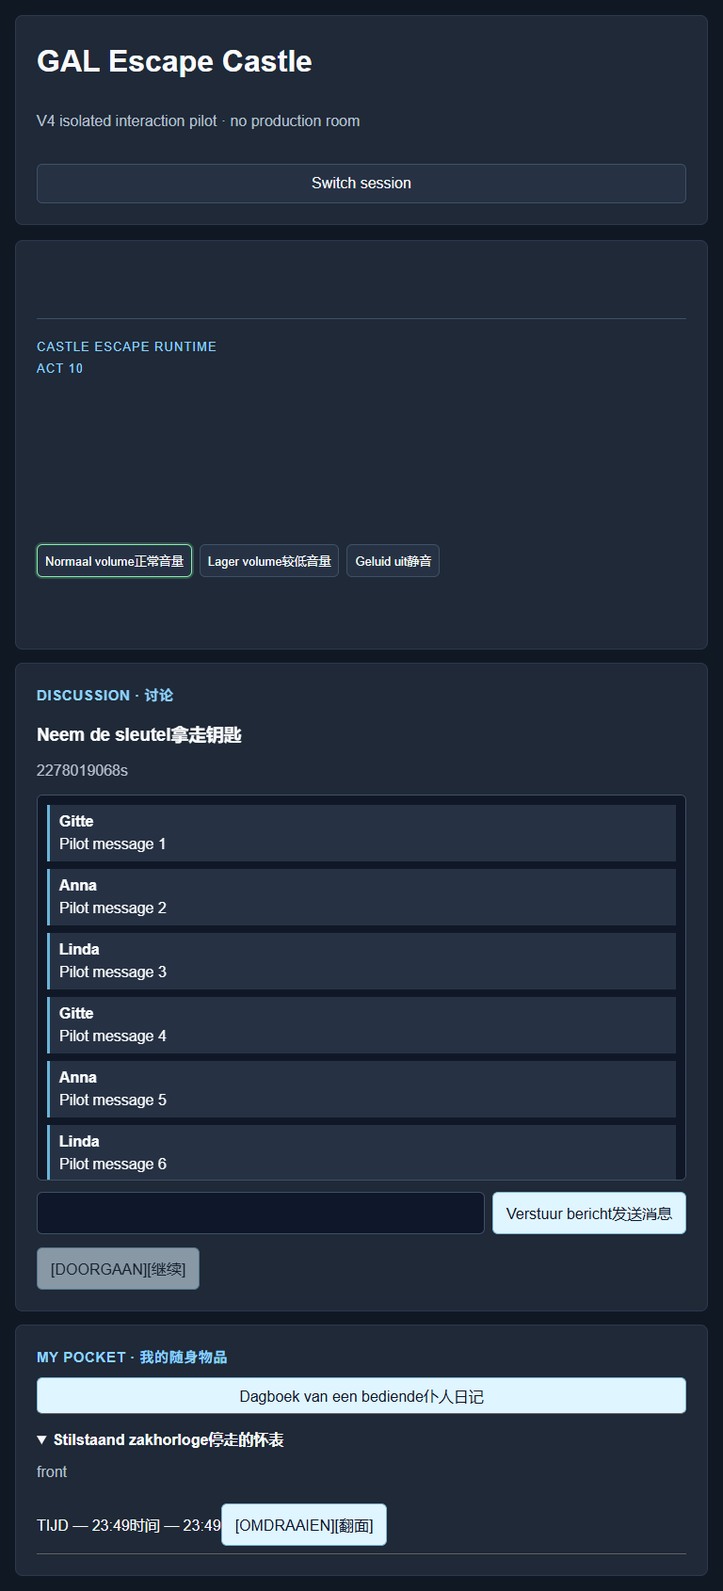
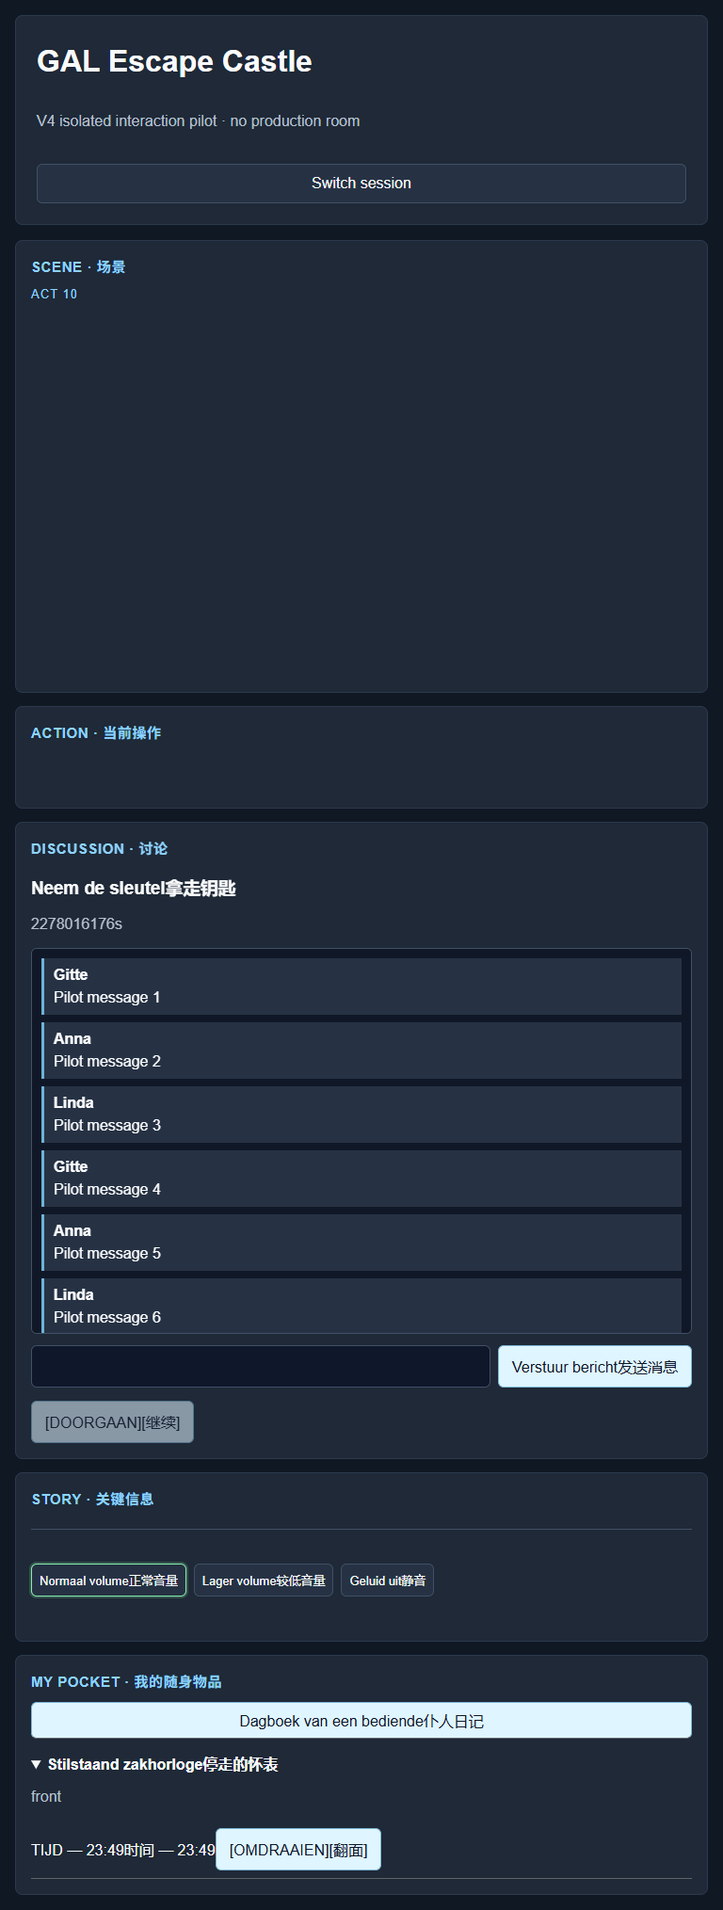
CD: close V4 interactive and layout review gaps

diff --git a/tests/helpers/v4-two-scene-pilot-driver.js b/tests/helpers/v4-two-scene-pilot-driver.js
@@ -5,17 +5,17 @@ const players=[
   {player_id:"00000000-0000-4000-8000-0000000004a4",display_name:"Linda",role_slot:"GAL-C",session_token:"PILOT-C"},
 ];
 const initialMessages=Array.from({length:18},(_,i)=>({display_name:players[i%3].display_name,message_text:`Pilot message ${i+1}`,created_at:`2026-10-25T00:00:${String(i).padStart(2,"0")}Z`}));
-function createPilotState(){return{messages:[...initialMessages],phase:"act10_discussion",discussionStatus:"discussion",sent:[],librarySubmits:[],inspected:[],flips:[],teacherOpenVote:[],pocketInspected:new Set(["linda_stopped_watch"]),watchView:"front"}}
+function createPilotState(sceneMode="act10"){return{sceneMode,lockedPrefix:"41",messages:[...initialMessages],phase:"act10_discussion",discussionStatus:"discussion",discussionId:DISC,sent:[],librarySubmits:[],inspected:[],flips:[],teacherOpenVote:[],pocketInspected:new Set(["linda_stopped_watch"]),watchView:"front"}}
 const sessionFor=index=>({room_code:"V4PILOT",...players[index]});
 const pocket=state=>({active:true,items:[{item_key:"anna_servant_diary",name_text_key:"item.servant_diary",current_view:"front"},{item_key:"linda_stopped_watch",name_text_key:"item.stopped_watch",current_view:state.watchView}],group_items:[],observations:[],shared_photos:[],inspected_item_keys:[...state.pocketInspected],scene:{allow_share_photo:false}});
-const s3b=scene=>({active:true,run_id:RUN,scene:scene==="act3"?{scene_id:"act3_library",phase_key:"library_box",step_key:"enter_code",text_key:"act03.009"}:{scene_id:"act10_golden_key",phase_key:"act10_discussion",step_key:"discussion",text_key:"act10.004"},flow:{puzzle_resolved_at:null,puzzle_locked_prefix:"41",puzzle_hint_stage:0},me:{first_meeting_locked_at:"2026-10-25T00:00:00Z",grab_complete:true,left_start_room:true,route_update_ack_at:"2026-10-25T00:00:01Z",player_location:"library"},queued_first_messages:[],act4_revealed:[]});
-const discussion=state=>({discussion_session_id:DISC,phase_key:"act10_discussion",status:state.discussionStatus,phase_deadline:"2099-01-01T00:00:00Z",teacher_open_required:true,vote_round:1,topic:"Golden key",messages:state.messages,require_final_vote:true});
+const s3b=(scene,state)=>({active:true,run_id:RUN,scene:scene==="act3"?{scene_id:"act3_library",phase_key:"library_box",step_key:"enter_code",text_key:"act03.009"}:{scene_id:"act10_golden_key",phase_key:"act10_discussion",step_key:"discussion",text_key:"act10.004"},flow:{puzzle_resolved_at:null,puzzle_locked_prefix:state.lockedPrefix,puzzle_hint_stage:0},me:{first_meeting_locked_at:"2026-10-25T00:00:00Z",grab_complete:true,left_start_room:true,route_update_ack_at:"2026-10-25T00:00:01Z",player_location:"library"},queued_first_messages:[],act4_revealed:[]});
+const discussion=state=>({discussion_session_id:state.discussionId,phase_key:"act10_discussion",status:state.discussionStatus,phase_deadline:"2099-01-01T00:00:00Z",teacher_open_required:true,vote_round:1,topic:"Golden key",messages:state.messages,require_final_vote:true});
 const s6=state=>({active:true,run_id:RUN,state:{run_id:RUN,act_no:10,phase_key:state.phase,act9_step:4,round_no:1,gold_key:true,feedback_text_keys:[]},discussion:state.phase==="act10_discussion"?discussion(state):null,private_choices_revealed:[],audio_occurrence:null});
 function playerValue(name,scene,state){
-  if(name==="s8_get_player_state")return{active:false};if(name==="s2_get_player_state")return{active:true,discussion:null};if(name==="s3b_get_player_state")return s3b(scene);if(name==="s5_get_player_state")return{active:false};if(name==="s6_get_player_state")return scene==="act10"?s6(state):{active:false};if(name==="s9_get_player_wait_state")return{active:false};if(name==="s3_get_player_state")return pocket(state);if(name==="asset_resolve")return{ok:false};return null;
+  if(name==="s8_get_player_state")return{active:false};if(name==="s2_get_player_state")return{active:true,discussion:null};if(name==="s3b_get_player_state")return s3b(scene,state);if(name==="s5_get_player_state")return{active:false};if(name==="s6_get_player_state")return scene==="act10"?s6(state):{active:false};if(name==="s9_get_player_wait_state")return{active:false};if(name==="s3_get_player_state")return pocket(state);if(name==="asset_resolve")return{ok:false};return null;
 }
-async function installPlayerRoutes(page,scene,{state=createPilotState(),playerIndex=1}={}){const session=sessionFor(playerIndex);await page.addInitScript(saved=>localStorage.setItem("gal_castle_escape_session_v1",JSON.stringify(saved)),session);await page.route("**/rest/v1/rpc/**",async route=>{const name=new URL(route.request().url()).pathname.split("/").pop(),body=route.request().postDataJSON?.()||{};if(name==="s6_send_message_v2"){state.sent.push({...body,role_slot:session.role_slot});state.messages.push({display_name:session.display_name,message_text:body.p_message_text,created_at:new Date().toISOString()});return ok(route)}if(name==="s3b_submit_library_code"){state.librarySubmits.push(body);return ok(route)}if(name==="s9_inspect_pocket_item"){state.inspected.push(body);state.pocketInspected.add(body.p_item_key);return ok(route)}if(name==="s3_set_item_view"){state.flips.push(body);state.watchView=body.p_target_view;return ok(route)}const result=playerValue(name,scene,state);return json(route,result===null?400:200,result===null?{message:`Unexpected RPC ${name}`}:result)});return state}
+async function installPlayerRoutes(page,scene,{state=createPilotState(scene),playerIndex=1}={}){const session=sessionFor(playerIndex);await page.addInitScript(saved=>localStorage.setItem("gal_castle_escape_session_v1",JSON.stringify(saved)),session);await page.route("**/rest/v1/rpc/**",async route=>{const name=new URL(route.request().url()).pathname.split("/").pop(),body=route.request().postDataJSON?.()||{};if(name==="s6_send_message_v2"){state.sent.push({...body,role_slot:session.role_slot});state.messages.push({display_name:session.display_name,message_text:body.p_message_text,created_at:new Date().toISOString()});return ok(route)}if(name==="s3b_submit_library_code"){state.librarySubmits.push(body);return ok(route)}if(name==="s9_inspect_pocket_item"){state.inspected.push(body);state.pocketInspected.add(body.p_item_key);return ok(route)}if(name==="s3_set_item_view"){state.flips.push(body);state.watchView=body.p_target_view;return ok(route)}const result=playerValue(name,state.sceneMode||scene,state);return json(route,result===null?400:200,result===null?{message:`Unexpected RPC ${name}`}:result)});return state}
 function teacherDiscussionState(state){return{sprint6_active:true,active:true,canonical_flow_active:true,run:{run_id:RUN,run_mode:"normal",behavior_dataset_eligible:false},s6:{act9_step:4,round_no:1},discussion:discussion(state),messages:state.messages,current_votes:players.map(p=>({...p,submitted:false})),teacher_override:null}}
-async function installTeacherRoutes(page,state){await page.route("**/rest/v1/rpc/**",async route=>{const name=new URL(route.request().url()).pathname.split("/").pop(),body=route.request().postDataJSON?.()||{};if(name==="s6_teacher_open_vote"){state.teacherOpenVote.push(body);state.discussionStatus="voting";state.phase="act10_final_vote";return ok(route)}if(name==="s1_get_teacher_state")return json(route,200,{room_code:"V4PILOT",current_scene:"act10_golden_key",phase:"active",players,decisions:[]});if(name==="s6_get_teacher_discussion_state")return json(route,200,teacherDiscussionState(state));if(name==="s7_get_teacher_console")return json(route,200,{active:false,export:{}});if(name==="s8_get_finalization_state")return json(route,200,{enabled:false,completed_runs:[]});return json(route,400,{message:`Unexpected RPC ${name}`})})}
+async function installTeacherRoutes(page,state){await page.route("**/rest/v1/rpc/**",async route=>{const name=new URL(route.request().url()).pathname.split("/").pop(),body=route.request().postDataJSON?.()||{};if(name==="s6_teacher_open_vote"){state.teacherOpenVote.push(body);state.discussionStatus="voting";state.phase="act10_final_vote";return ok(route)}if(name==="s1_get_teacher_state")return json(route,200,{room_code:"V4PILOT",current_scene:state.sceneMode==="act3"?"act3_library":"act10_golden_key",phase:"active",players,decisions:[]});if(name==="s6_get_teacher_discussion_state")return json(route,200,state.sceneMode==="act10"?teacherDiscussionState(state):{sprint6_active:false});if(name==="s5_get_teacher_discussion_state")return json(route,200,{sprint5_active:false});if(name==="s2_get_teacher_state")return json(route,200,{active:false,canonical_flow_active:true,discussion:null,teacher_override:null});if(name==="s7_get_teacher_console")return json(route,200,{active:false,export:{}});if(name==="s8_get_finalization_state")return json(route,200,{enabled:false,completed_runs:[]});return json(route,400,{message:`Unexpected RPC ${name}`})})}
 function json(route,status,value){return route.fulfill({status,contentType:"application/json",body:JSON.stringify(value)})}function ok(route){return json(route,200,{ok:true})}
 module.exports={RUN,DISC,players,createPilotState,installPlayerRoutes,installTeacherRoutes};

diff --git a/pilots/v4-two-scene/v4-two-scene-pilot.css b/pilots/v4-two-scene/v4-two-scene-pilot.css
@@ -1,3 +1,3 @@
-html[data-v4-pilot="true"]{--v4-gap:14px}html[data-v4-pilot="true"] body{background:#101824}html[data-v4-pilot="true"] .v4-pilot-shell{max-width:1680px;margin:auto;padding:16px}html[data-v4-pilot="true"] .v4-header{display:grid;grid-template-columns:1fr 1.4fr auto;gap:20px;align-items:center}html[data-v4-pilot="true"] .v4-header h1,html[data-v4-pilot="true"] .v4-header h2{margin:0}html[data-v4-pilot="true"] .v4-runtime-grid{display:grid;grid-template-columns:minmax(0,1.85fr) minmax(430px,1fr);grid-template-areas:"scene discussion" "scene pocket";gap:var(--v4-gap);align-items:start}html[data-v4-pilot="true"] .v4-runtime-grid>.panel{margin:0}html[data-v4-pilot="true"] .v4-scene-region{grid-area:scene;min-height:620px}html[data-v4-pilot="true"] .v4-discussion-region{grid-area:discussion;min-width:0}html[data-v4-pilot="true"] .v4-pocket-region{grid-area:pocket;min-width:0}html[data-v4-pilot="true"] .v4-region-title{font-size:15px;letter-spacing:.04em;text-transform:uppercase;color:var(--accent)}html[data-v4-pilot="true"] .v4-discussion-region .discussion-room{border:0;margin:0;padding:0}html[data-v4-pilot="true"] .v4-discussion-region .transcript{height:clamp(320px,44vh,640px);max-height:none}html[data-v4-pilot="true"] .v4-pocket-region .evidence-panel{margin:0;background:transparent;border:0;padding:0}html[data-v4-pilot="true"] .v4-pocket-region .v4-pocket-empty:has(+.evidence-panel){display:none}html[data-v4-pilot="true"] .s5-scene,html[data-v4-pilot="true"] .s6-scene-wrap img{width:100%;object-fit:contain}
+html[data-v4-pilot="true"]{--v4-gap:14px}html[data-v4-pilot="true"] body{background:#101824}html[data-v4-pilot="true"] .v4-pilot-shell{max-width:1680px;margin:auto;padding:16px}html[data-v4-pilot="true"] .v4-header{display:grid;grid-template-columns:1fr 1.4fr auto;gap:20px;align-items:center}html[data-v4-pilot="true"] .v4-header h1,html[data-v4-pilot="true"] .v4-header h2{margin:0}html[data-v4-pilot="true"] .v4-runtime-grid{display:grid;grid-template-columns:minmax(0,1.85fr) minmax(430px,1fr);grid-template-areas:"scene action" "scene discussion" "story pocket";grid-template-rows:auto minmax(360px,auto) auto;gap:var(--v4-gap);align-items:stretch}html[data-v4-pilot="true"] .v4-runtime-grid>.panel{margin:0;padding:16px}html[data-v4-pilot="true"] .v4-scene-region{grid-area:scene;min-height:620px}html[data-v4-pilot="true"] .v4-action-region{grid-area:action;min-width:0}html[data-v4-pilot="true"] .v4-story-region{grid-area:story;min-width:0;min-height:180px}html[data-v4-pilot="true"] .v4-discussion-region{grid-area:discussion;min-width:0}html[data-v4-pilot="true"] .v4-pocket-region{grid-area:pocket;min-width:0}html[data-v4-pilot="true"] .v4-region-title{font-size:15px;letter-spacing:.04em;text-transform:uppercase;color:var(--accent);margin-top:0}html[data-v4-pilot="true"] #v4SceneMount .s6-stage,html[data-v4-pilot="true"] #v4SceneMount #s3bSceneImage{width:100%;min-height:360px}html[data-v4-pilot="true"] .v4-discussion-region .discussion-room{border:0;margin:0;padding:0}html[data-v4-pilot="true"] .v4-discussion-region .transcript{height:clamp(320px,44vh,640px);max-height:none}html[data-v4-pilot="true"] .v4-pocket-region .evidence-panel{margin:0;background:transparent;border:0;padding:0}html[data-v4-pilot="true"] .v4-pocket-region .v4-pocket-empty:has(+.evidence-panel){display:none}html[data-v4-pilot="true"] .s5-scene,html[data-v4-pilot="true"] .s6-scene-wrap img{width:100%;object-fit:contain}
 @media(max-width:1399px) and (min-width:1000px){html[data-v4-pilot="true"] .v4-runtime-grid{grid-template-columns:minmax(0,1.55fr) minmax(390px,1fr)}html[data-v4-pilot="true"] .v4-discussion-region .transcript{height:clamp(300px,40vh,540px)}}
-@media(max-width:999px){html[data-v4-pilot="true"] .v4-header{grid-template-columns:1fr}html[data-v4-pilot="true"] .v4-runtime-grid{grid-template-columns:1fr;grid-template-areas:"scene" "discussion" "pocket"}html[data-v4-pilot="true"] .v4-scene-region{min-height:360px}html[data-v4-pilot="true"] .v4-discussion-region .transcript{height:clamp(280px,40vh,500px)}}
+@media(max-width:999px){html[data-v4-pilot="true"] .v4-header{grid-template-columns:1fr}html[data-v4-pilot="true"] .v4-runtime-grid{grid-template-columns:1fr;grid-template-areas:"scene" "action" "discussion" "story" "pocket";grid-template-rows:auto}html[data-v4-pilot="true"] .v4-scene-region{min-height:360px}html[data-v4-pilot="true"] .v4-discussion-region .transcript{height:clamp(280px,40vh,500px)}}

diff --git a/pilots/v4-two-scene/v4-presentation-adapter.js b/pilots/v4-two-scene/v4-presentation-adapter.js
@@ -1,8 +1,8 @@
 const root=document.documentElement;
 if(root.dataset.v4Pilot!=="true")throw new Error("V4 adapter may run only in the isolated pilot shell.");
 
-const saved={inputs:new Map(),transcripts:new Map(),pockets:new Map(),viewport:{x:0,y:0},discussionMount:document.getElementById("v4DiscussionMount"),pocketMount:document.getElementById("v4PocketMount")};
-let adapting=false;
+const saved={inputs:new Map(),transcripts:new Map(),pockets:new Map(),viewport:{x:0,y:0},sceneMount:document.getElementById("v4SceneMount"),discussionMount:document.getElementById("v4DiscussionMount"),pocketMount:document.getElementById("v4PocketMount")};
+let adapting=false,observer=null;
 const nearBottom=node=>node.scrollHeight-node.scrollTop-node.clientHeight<=24;
 const discussionIdentity=node=>node.id==="transcript"?`generic:${document.getElementById("discussionTopic")?.textContent||""}:${document.getElementById("discussionMeta")?.textContent||""}`:`s6:${node.closest(".discussion-room")?.querySelector("[data-s6-discussion]")?.dataset.s6Discussion||"pending"}`;
 const inputIdentity=node=>node.id==="libraryCode"?`library:${node.dataset.lockedPrefix||""}`:node.id==="s6MessageText"?`${discussionIdentity(node.closest(".discussion-room")?.querySelector(".transcript"))}:message`:`generic:${document.getElementById("discussionTopic")?.textContent||""}:message`;
@@ -21,14 +21,18 @@ document.addEventListener("toggle",event=>capturePocket(event.target),true);
 function restore(){
   if(adapting)return;adapting=true;
   try{
-    const embedded=document.querySelector("#sprint3bActions>.discussion-room");if(embedded&&embedded.parentElement!==saved.discussionMount){saved.discussionMount.querySelectorAll(".discussion-room:has(#s6MessageForm)").forEach(node=>node.remove());saved.discussionMount.append(embedded)}
+    const scene=document.querySelector("#sprint3bText>.s6-stage,#sprint3bText>#s3bSceneImage");if(scene&&scene.parentElement!==saved.sceneMount){saved.sceneMount.replaceChildren(scene)}
+    const embedded=document.querySelector("#sprint3bActions>.discussion-room");if(embedded&&embedded.parentElement!==saved.discussionMount){saved.discussionMount.querySelectorAll(".discussion-room:has(#s6MessageForm)").forEach(node=>node.remove());saved.discussionMount.append(embedded)}else if(!embedded)saved.discussionMount.querySelectorAll(".discussion-room:has(#s6MessageForm)").forEach(node=>node.remove());
     const pocket=document.querySelector("#sprint3bText .evidence-panel");if(pocket&&pocket.parentElement!==saved.pocketMount){saved.pocketMount.querySelectorAll(".evidence-panel").forEach(node=>node.remove());saved.pocketMount.append(pocket)}
     document.querySelectorAll("#messageText,#s6MessageText,#libraryCode").forEach(node=>{const state=saved.inputs.get(inputIdentity(node));if(!state)return;node.value=state.value;if(state.focused){node.focus({preventScroll:true});if(state.start!==null&&state.end!==null)node.setSelectionRange(state.start,state.end)}state.source=node});
     document.querySelectorAll("#transcript,.discussion-room .transcript").forEach(node=>{const state=saved.transcripts.get(discussionIdentity(node));if(!state)return;node.scrollTop=state.bottom?node.scrollHeight:state.top});
     saved.pocketMount.querySelectorAll(".evidence-panel details").forEach(node=>{const open=saved.pockets.get(pocketIdentity(node));if(open!==undefined)node.open=open});
     scrollTo(saved.viewport.x,saved.viewport.y);
     root.dataset.v4AdapterReady="true";
+    observer?.takeRecords();
   }finally{queueMicrotask(()=>{adapting=false})}
 }
-new MutationObserver(()=>queueMicrotask(restore)).observe(document.getElementById("gamePanel"),{subtree:true,childList:true});
+observer=new MutationObserver(()=>queueMicrotask(restore));
+observer.observe(document.getElementById("sprint3bText"),{subtree:true,childList:true});
+observer.observe(document.getElementById("sprint3bActions"),{subtree:true,childList:true});
 restore();

diff --git a/tests/v4-two-scene-pilot-static-check.js b/tests/v4-two-scene-pilot-static-check.js
@@ -2,7 +2,7 @@ const fs=require("node:fs"),assert=require("node:assert/strict");
 const html=fs.readFileSync("pilots/v4-two-scene/player.html","utf8"),css=fs.readFileSync("pilots/v4-two-scene/v4-two-scene-pilot.css","utf8"),adapter=fs.readFileSync("pilots/v4-two-scene/v4-presentation-adapter.js","utf8");
 for(const id of["joinPanel","gamePanel","roomCode","joinCode","joinButton","leaveButton","joinStatus","gameStatus","playerLabel","sceneTitle","sceneText","choiceArea","revealArea","discussionPanel","discussionTopic","discussionDeadline","discussionMeta","initialChoiceArea","transcript","messageComposer","messageText","sendMessageButton","voteArea","voteHistory","discussionStatus","sprint3bPanel","sprint3bText","sprint3bActions","sprint3bStatus"])assert(html.includes(`id="${id}"`),`missing stable ID ${id}`);
 assert(html.includes('../../src/game/app.js'),"pilot does not import real production renderer");assert(!html.includes("supabase.co"),"pilot shell embeds production network");
-for(const token of["v4-runtime-grid","v4DiscussionMount","v4PocketMount","@media(max-width:1399px)","@media(max-width:999px)"])assert(html.includes(token)||css.includes(token),`missing V4 shell contract ${token}`);
+for(const token of["v4-runtime-grid","v4SceneMount","v4-action-region","v4-story-region","v4DiscussionMount","v4PocketMount","\"scene action\" \"scene discussion\" \"story pocket\"","@media(max-width:1399px)","@media(max-width:999px)"])assert(html.includes(token)||css.includes(token),`missing V4 shell contract ${token}`);
 for(const token of["MutationObserver","discussionIdentity","inputIdentity","nearBottom","selectionStart","preventScroll","dataset.v4AdapterReady"])assert(adapter.includes(token),`missing adapter contract ${token}`);
 assert(!adapter.includes("fetch(")&&!adapter.includes("rpc("),"presentation adapter invented network/action authority");
 console.log("V4 two-scene pilot static checks passed.");

diff --git a/pilots/v4-two-scene/player.html b/pilots/v4-two-scene/player.html
@@ -21,10 +21,18 @@
   </section>
 
   <section id="gamePanel" class="hidden v4-runtime-grid">
-    <section class="panel v4-scene-region" aria-label="Scene and story">
-      <div id="sceneText"></div><div id="choiceArea"></div><div id="revealArea"></div><p id="gameStatus" class="status muted"></p>
+    <section class="panel v4-scene-region" aria-label="Scene">
+      <h2 class="v4-region-title">Scene · 场景</h2><div id="v4SceneMount"></div><div id="sceneText"></div><p id="gameStatus" class="status muted"></p>
+    </section>
+
+    <section class="panel v4-action-region" aria-label="Action">
+      <h2 class="v4-region-title">Action · 当前操作</h2><div id="choiceArea"></div><div id="revealArea"></div><div id="sprint3bActions"></div><p id="sprint3bStatus" class="status muted"></p>
+    </section>
+
+    <section class="panel v4-story-region" aria-label="Story and key information">
+      <h2 class="v4-region-title">Story · 关键信息</h2>
       <section id="sprint3bPanel" class="story-flow hidden" aria-live="polite">
-        <p class="eyebrow">Castle Escape Runtime</p><div id="sprint3bText"></div><div id="sprint3bActions"></div><p id="sprint3bStatus" class="status muted"></p>
+        <div id="sprint3bText"></div>
       </section>
     </section>
 

diff --git a/docs/reports/remediation/ui/v4-two-scene/TEACHER_HANDS_ON_INSTRUCTIONS.md b/docs/reports/remediation/ui/v4-two-scene/TEACHER_HANDS_ON_INSTRUCTIONS.md
@@ -1,4 +1,4 @@
-# Teacher Review Instructions — V4 Two-Scene Isolated Pilot
+# Teacher Hands-On Instructions — V4 Two-Scene Isolated Pilot
 
 This review is synthetic and isolated. It does not create a room, contact production Supabase, change GitHub Pages or use the live game environment.
 
@@ -19,6 +19,34 @@ V4 two-scene pilot browser evidence passed.
 
 The preceding JSON must show `act10Messages: 9`, `teacherOpenVote: 1`, `act3Submits: 1`, `pocketInspects: 1`, `pocketFlips: 1`, and `screenshots: 8`.
 
+## Interactive ACT10 review
+
+From the repository root in PowerShell:
+
+```powershell
+$env:NODE_PATH='C:\Users\59743\.cache\codex-runtimes\codex-primary-runtime\dependencies\node\node_modules'
+& 'C:\Users\59743\.cache\codex-runtimes\codex-primary-runtime\dependencies\node\bin\node.exe' tests/v4-two-scene-pilot-interactive.mjs --scene=act10
+```
+
+The launcher opens three isolated Player contexts (Gitte, Anna and Linda) and one current `teacher.html` context. The terminal prints:
+
+```text
+V4_INTERACTIVE_READY scene=act10 players=3 teacher=1 network=synthetic-only
+```
+
+Freely type, send and scroll in all three Player windows. In the Teacher window, use **Open vote now** and confirm the Player windows transition away from discussion. No Supabase credentials are requested or used.
+
+To stop, return to the PowerShell window and press **Enter**. The launcher closes all four contexts and the local server.
+
+## Interactive ACT3 review
+
+```powershell
+$env:NODE_PATH='C:\Users\59743\.cache\codex-runtimes\codex-primary-runtime\dependencies\node\node_modules'
+& 'C:\Users\59743\.cache\codex-runtimes\codex-primary-runtime\dependencies\node\bin\node.exe' tests/v4-two-scene-pilot-interactive.mjs --scene=act3
+```
+
+The launcher again opens three Player contexts and one Teacher context. Enter the remaining digits, inspect Pocket items, flip the watch and scroll freely. The ACT3 Teacher context is observational; Open Vote is intentionally unavailable because ACT3 has no ACT10 vote projection. Press **Enter** in PowerShell to stop.
+
 ## Visual review
 
 Inspect the eight PNG files under `docs/reports/remediation/ui/v4-two-scene/screenshots/`:
@@ -30,4 +58,4 @@ Check that the scene remains primary, Discussion and Pocket are separate regions
 
 ## Stop condition
 
-Do not publish, change Pages, connect a real room or edit production source during this review. Record visual PASS/FAIL against the exact CD implementation commit named in the CD→GA/CA handoff. Any integration request requires a new CA authorization.
+Do not publish, change Pages, connect a real room or edit production source during this review. Record visual PASS/FAIL against the exact CD implementation commit named in the latest CD→GA/CA handoff. Any integration request requires a new CA authorization.

diff --git a/docs/reports/remediation/ui/v4-two-scene/V4_INTERACTIVE_AND_LAYOUT_CLOSURE_EVIDENCE_20261025.md b/docs/reports/remediation/ui/v4-two-scene/V4_INTERACTIVE_AND_LAYOUT_CLOSURE_EVIDENCE_20261025.md
@@ -1,0 +1,32 @@
+# V4 Interactive and Layout Closure Evidence
+
+## Trigger
+
+- CA conditional source review: `agent-comms/CA_to_CD_GA_20261025T094500Z_v4-pilot-source-review-conditional-pass-hands-on-gap.md`
+- GA source-layout review: `agent-comms/GA_to_CA_20261025T094500Z_v4-pilot-source-layout-review-visual-evidence-blocked.md`
+- Reviewed baseline: `5d11f1e`
+
+## Minimal closure implemented
+
+1. Added a synthetic-only headed Playwright launcher supporting `--scene=act10` and `--scene=act3`. Each mode opens three role-separated Player contexts and one current Teacher context, shares only an in-memory projection, requests no credential and exits cleanly when the operator presses Enter.
+2. Corrected the pilot grid to the accepted V4 source contract: desktop `scene/action`, `scene/discussion`, `story/pocket`; mobile `scene → action → discussion → story → pocket`.
+3. Separated Scene, Action and Story mounts without changing stable production element IDs or production source. The bounded adapter moves only rendered visual nodes into the isolated Scene mount.
+4. Added negative browser transitions covering ACT10 discussion → vote → ACT3 → new ACT10 discussion identity, ACT3 locked-prefix identity change, and intentional viewport scrolling across polls.
+5. Narrowed MutationObserver ownership to the production Story/Action source nodes. Old Sprint6 discussion projections are removed when vote opens, while mutations caused by the adapter's own node moves are discarded.
+
+## Validation
+
+Passed:
+
+```text
+node tests/v4-two-scene-pilot-static-check.js
+node tests/v4-two-scene-pilot-interactive.mjs --scene=act10 --smoke
+node tests/v4-two-scene-pilot-interactive.mjs --scene=act3 --smoke
+node tests/v4-two-scene-pilot-browser.mjs
+```
+
+The browser receipt includes `negativeTransitions: 1`, nine ACT10 messages, one Teacher Open Vote, one ACT3 submit, one Pocket inspect, one Pocket flip and eight regenerated screenshots.
+
+## Isolation
+
+No production Player/Teacher source, Pages, database, Storage, asset, backend contract or real room was modified. This remains a removable feasibility pilot and carries no production integration authority.
